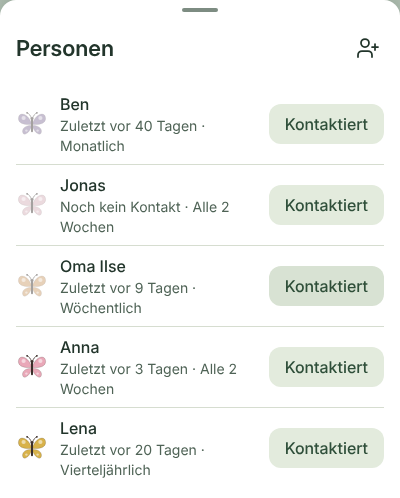
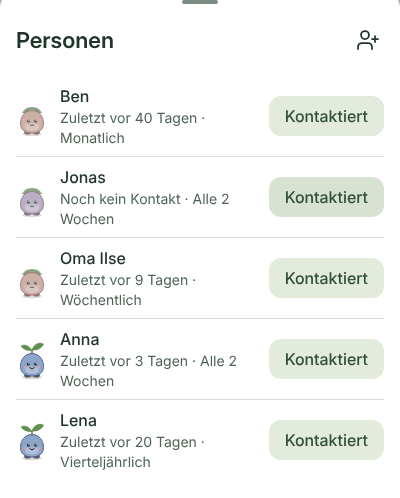
Personen: kurze Schilder auf der Insel, Spross-Figuren in den Listen
- Balance-Ansicht auf schmalen Bildschirmen: passen die vollen Schilder
  („Lena · 80 %“) nicht alle, zeigt jede Figur nur ihre Zahl („80 %“).
  Weiterhin alle oder keine; bei 320 px mit fünf Personen bleiben sie aus.
- „Melde dich bei“ und das Personen-Fenster zeigen statt Schmetterlingen
  dieselben Spross-Figuren wie die Insel (überfällig mit hängenden Blättern).
- Schmetterlings-Grafik entfernt, butterflyColor heißt jetzt personColor.
- README-Bild personen.png und Alt-Texte erneuert; Protokoll I.11–I.13.

Claude-Session: https://claude.ai/code/session_01AGRbJ4wazitSC9Dqb7GW9X

diff --git a/src/screens/garden.ts b/src/screens/garden.ts
@@ -15,7 +15,9 @@
 //   "Alle Personen"); in rhythm close together in the grove, overdue a little apart, paler and with
 //   drooping leaves. Each figure is one button (opens the person) whose pill "Lena · 80 %" is part of it.
 //   Pills show in the balance view, and in the garden view when there is room (stage ≥ 560 px) or at most
-//   three people; and only when all of them find a spot near their figures (all or none). A figure hops
+//   three people; and only when all of them find a spot near their figures (all or none). When the full
+//   pills ("Lena · 80 %") do not all fit, every pill shrinks to its number ("80 %", data-short; decision of
+//   14.10.2026), so each person keeps a number; the name stays in the figure's label and sheet. A figure hops
 //   when the person is contacted (CSS; not under reduced motion, where the move to the group and the new
 //   percent show the change).
 // - Labels are laid out after every change and on resize (services/island layoutLabels, measured in
@@ -301,8 +303,10 @@ function pillMarkup(name: string, pct: string): SafeHtml {
 
 /** "Lena · 80 %": the name may be cut with an ellipsis, the percent never. */
 function personPillMarkup(name: string, pct: string): SafeHtml {
-  const [before = '', after = ''] = t.islandPersonPill.split('{name}');
-  return h`<span class="ol-isl__dot" aria-hidden="true"></span>${before}<span class="ol-isl__pill-name">${name}</span><span class="ol-isl__pill-pct">${fmt(after, { pct })}</span>`;
+  // "{name} · {pct}": name, separator and number in their own spans, so the short form can hide the first two.
+  const [before = '', rest = ''] = t.islandPersonPill.split('{name}');
+  const [sep = '', after = ''] = rest.split('{pct}');
+  return h`<span class="ol-isl__dot" aria-hidden="true"></span><span class="ol-isl__pill-name">${before}${name}</span><span class="ol-isl__pill-sep">${sep}</span><span class="ol-isl__pill-pct">${pct}${after}</span>`;
 }
 
 /** Box of `el` relative to `origin` (both measured on screen). */
@@ -653,21 +657,34 @@ export class Island {
     const peoplePills = showPeoplePills(this.mode, figures.length, W >= ROOMY_PX);
     // In slot order (from the bench outwards), the order the slots were laid out for.
     const bySlot = [...figures].sort((a, b) => Number(a.li.dataset['slot'] ?? 0) - Number(b.li.dataset['slot'] ?? 0));
-    for (const f of bySlot) {
-      if (!f.pill || !f.box) continue;
-      f.pill.toggleAttribute('data-off', !peoplePills);
-      if (!peoplePills) continue;
+    const personRequests = (): LabelRequest[] => bySlot.flatMap((f) => {
+      if (!f.pill || !f.box) return [];
       const w = f.pill.offsetWidth;
       const hh = f.pill.offsetHeight;
       const { x, y, w: fw, h: fh } = f.box;
-      requests.push({
+      return [{
         id: `f:${f.li.dataset['id'] ?? ''}`, cx: x + fw / 2, cy: y - hh / 2 - 2, w, h: hh, reach: REACH_PERSON, required: false,
         // Below, right and left of the figure when the space above is taken.
         alternatives: [[x + fw / 2, y + fh + hh / 2 + 2], [x + fw + w / 2 + 2, y + fh / 2], [x - w / 2 - 2, y + fh / 2]],
-      });
+      }];
+    });
+    for (const f of figures) {
+      // Measure in the full form and invisible; the result decides below.
+      f.pill?.toggleAttribute('data-off', true);
+      f.pill?.toggleAttribute('data-short', false);
     }
-    const result = layoutLabels(requests, obstacles, { x: 4, y: 2, w: W - 8, h: H - 4 });
-
+    const bounds = { x: 4, y: 2, w: W - 8, h: H - 4 };
+    const fits = (r: Map<string, Box | null>): boolean => figures.every((f) => !f.pill || !f.box || r.get(`f:${f.li.dataset['id'] ?? ''}`));
+    let result = layoutLabels(peoplePills ? [...requests, ...personRequests()] : requests, obstacles, bounds);
+    // All or none: a person without a number next to the others would read as missing data. If the full
+    // pills do not all fit, try the short ones ("80 %") before hiding them.
+    let short = false;
+    if (peoplePills && !fits(result)) {
+      short = true;
+      for (const f of figures) f.pill?.toggleAttribute('data-short', true);
+      result = layoutLabels([...requests, ...personRequests()], obstacles, bounds);
+    }
+    const showPeople = peoplePills && fits(result);
     for (const el of pillEls) {
       const box = result.get(`p:${el.dataset['place'] ?? ''}`);
       if (box) {
@@ -680,13 +697,12 @@ export class Island {
       setVar(this.total, '--x', ((totalBox.x + totalBox.w / 2) / W).toFixed(4));
       setVar(this.total, '--y', ((totalBox.y + totalBox.h / 2) / H).toFixed(4));
     }
-    // All or none: a person without a number next to the others would read as missing data.
-    const allFit = figures.every((f) => !f.pill || !f.box || result.get(`f:${f.li.dataset['id'] ?? ''}`));
     for (const f of figures) {
-      if (!f.pill || !f.box || !f.button || !peoplePills) continue;
+      if (!f.pill || !f.box || !f.button) continue;
       const box = result.get(`f:${f.li.dataset['id'] ?? ''}`);
-      f.pill.toggleAttribute('data-off', !box || !allFit);
-      if (!box || !allFit) continue;
+      f.pill.toggleAttribute('data-off', !box || !showPeople);
+      f.pill.toggleAttribute('data-short', short && showPeople);
+      if (!box || !showPeople) continue;
       // The pill sits inside the figure button: offsets from the button's top-left corner.
       setVar(f.pill, '--dx', `${(box.x + box.w / 2 - f.box.x).toFixed(1)}px`);
       setVar(f.pill, '--dy', `${(box.y + box.h / 2 - f.box.y).toFixed(1)}px`);

diff --git a/public/styles/screens.css b/public/styles/screens.css
@@ -295,7 +295,7 @@
   --cloud: rgba(255, 255, 255, .4);
 }
 /* Nachtgarten (dark theme): night palette in every phase with a faint phase tint, the moon travels the
-   sun's arc; plants, flowers and butterflies keep their colours. */
+   sun's arc; plants, flowers and the people keep their colours. */
 :root[data-theme="dark"] .ol-hero {
   --sky-top: #141B2A; --sky-bottom: #1C2430; --sky-flat: #192029;
   --cloud: rgba(200, 210, 225, .1);
@@ -727,7 +727,7 @@
 .ol-isl__total-icon .ol-icon { width: 1.25em; height: 1.25em; }
 
 /* People as sprout figures (Keimi's family) by the big tree: the li is a point at the figure's feet, the
-   button stands on it; the pill "Lena · 80 %" is part of the button (offset --dx/--dy from the layout).
+   button stands on it; the pill "Lena · 80 %" (short: "80 %") is part of the button (offset --dx/--dy from the layout).
    Overdue: paler, drooping leaves (the shape is in the SVG). In rhythm the leaves sway gently. */
 .ol-isl__people { position: absolute; inset: 0; z-index: 2; margin: 0; padding: 0; list-style: none; pointer-events: none; }
 .ol-isl__person { width: 0; height: 0; }
@@ -742,11 +742,16 @@
 .ol-isl__fig .ol-isl__pill--person { position: absolute; left: var(--dx, 50%); top: var(--dy, -14px); translate: -50% -50%; }
 .ol-isl__pill--person[data-off] { visibility: hidden; }
 .ol-isl__pill--person .ol-isl__pill-name { max-width: 7.5em; overflow: hidden; text-overflow: ellipsis; }
+/* Short form on narrow stages with many people: only the number ("80 %"); the name is in the figure's label. */
+.ol-isl__pill--person[data-short] { gap: .3em; padding: 0 .6em 0 .45em; }
+.ol-isl__pill--person[data-short] .ol-isl__pill-name, .ol-isl__pill--person[data-short] .ol-isl__pill-sep { display: none; }
 .ol-isl__person[data-state="due"] .ol-isl__fig-art { opacity: .8; filter: saturate(.6); }
-.ol-isl__fig-svg .f-leaf { fill: var(--isl-leaf); stroke: color-mix(in oklab, var(--isl-leaf) 75%, var(--isl-shadow)); stroke-width: .6; }
-.ol-isl__fig-svg .f-stem { fill: none; stroke: color-mix(in oklab, var(--isl-leaf) 75%, var(--isl-shadow)); }
-.ol-isl__fig-svg .f-sh { fill: var(--isl-shadow); opacity: .22; }
-.ol-isl__fig-svg .i-night { display: none; }
+:is(.ol-isl__fig-svg, .ol-sprout) .f-leaf { fill: var(--isl-leaf); stroke: color-mix(in oklab, var(--isl-leaf) 75%, var(--isl-shadow)); stroke-width: .6; }
+:is(.ol-isl__fig-svg, .ol-sprout) .f-stem { fill: none; stroke: color-mix(in oklab, var(--isl-leaf) 75%, var(--isl-shadow)); }
+:is(.ol-isl__fig-svg, .ol-sprout) .f-sh { fill: var(--isl-shadow); opacity: .22; }
+/* Outside the island (lists) the figures stay awake and still. */
+.ol-sprout { display: block; overflow: visible; }
+:is(.ol-isl__fig-svg, .ol-sprout) .i-night { display: none; }
 :root[data-theme="dark"] .ol-isl__fig-svg .i-night, .ol-hero[data-phase="night"] .ol-isl__fig-svg .i-night { display: inline; }
 :root[data-theme="dark"] .ol-isl__fig-svg .i-day, .ol-hero[data-phase="night"] .ol-isl__fig-svg .i-day { display: none; }
 .ol-isl__fig-svg .f-leaves { transform-box: view-box; transform-origin: 16px 15px; }
@@ -1378,9 +1383,9 @@
 /* === /einstellungen === */
 
 /* === people === */
-/* People list ("Personen"): per person one button with the butterfly, the name and "last contact ·
-   rhythm" (≥ 56 px), and a compact "Kontaktiert" on the right. Due people show a pale butterfly, as
-   on the island. The bottom padding keeps the last row clear of a toast. */
+/* People list ("Personen"): per person one button with the sprout figure, the name and "last contact ·
+   rhythm" (≥ 56 px), and a compact "Kontaktiert" on the right. Due people show a paler figure with
+   drooping leaves, as on the island. The bottom padding keeps the last row clear of a toast. */
 .ol-people { display: flex; flex-direction: column; padding: var(--space-1) 0 calc(var(--touch) + var(--space-4)); }
 .ol-people__list { display: grid; }
 .ol-people__list[hidden] { display: none; }
@@ -1399,7 +1404,7 @@
 }
 .ol-people__open:active { background-color: var(--color-overlay-pressed); }
 .ol-people__glyph { flex: none; display: inline-flex; transition: opacity var(--duration-base) linear; }
-.ol-people__row[data-due] .ol-people__glyph { opacity: .45; filter: saturate(.6); }
+.ol-people__row[data-due] .ol-people__glyph { opacity: .8; filter: saturate(.6); }
 .ol-people__text { flex: 1 1 auto; min-width: 0; display: flex; flex-direction: column; }
 .ol-people__name { font-weight: 500; overflow-wrap: anywhere; }
 .ol-people__meta { color: var(--color-text-2); overflow-wrap: anywhere; }

diff --git a/src/screens/heute.ts b/src/screens/heute.ts
@@ -43,8 +43,8 @@
 //   are celebrated quietly (Keimi's sentence for CELEBRATE_MS, the object fades in, aria-live). The mount also
 //   runs the silent backfill. Each place shows its highest streak tier and up to three shrubs.
 import { liveQuery, type Observable, type Subscription } from 'dexie';
-import { butterfly, flower, petalColor } from '../components/flora.js';
-import type { IslandArea } from '../components/island.js';
+import { flower, petalColor } from '../components/flora.js';
+import { sproutFigure, type IslandArea } from '../components/island.js';
 import type { CheckboxChange } from '../components/ol-checkbox.js';
 import type { HabitToggleChange } from '../components/ol-habit-toggle.js';
 import type { OlHeatmap, ToggleDayDetail } from '../components/ol-heatmap.js';
@@ -70,7 +70,7 @@ import { profile$, updateProfile } from '../repo/profile.js';
 import { compareDue, completeTask, dueOn, getTask, reopenTask, subtaskProgress$, type CompleteResult } from '../repo/tasks.js';
 import type { Route } from '../router.js';
 import {
-  butterflyColor, closeness, contactStatuses, lastContactText, rhythmLabel, suggestions, type ContactStatus,
+  personColor, closeness, contactStatuses, lastContactText, rhythmLabel, suggestions, type ContactStatus,
 } from '../services/contacts.js';
 import { bestStreak, isScheduledOn, nextStage, stageFor, streak, weekProgress } from '../services/growth.js';
 import {
@@ -1609,7 +1609,7 @@ class HeuteScreen {
       const person: IslandPerson & { urgency: number } = {
         id: status.contact.id,
         name: status.contact.name,
-        color: butterflyColor(status.contact),
+        color: personColor(status.contact),
         state,
         pct,
         label: fmt(t.islandPersonAria, {
@@ -2165,11 +2165,11 @@ class HeuteScreen {
 
   private updatePersonRow(row: HTMLElement, status: ContactStatus): void {
     const { contact } = status;
-    const color = butterflyColor(contact);
+    const look = `${personColor(contact)}|${status.due ? 'due' : 'fresh'}`;
     const glyph = row.querySelector<HTMLElement>('.ol-heute__person-glyph');
-    if (glyph && glyph.dataset['color'] !== color) {
-      glyph.dataset['color'] = color;
-      render(glyph, raw(butterfly(color, 28)));
+    if (glyph && glyph.dataset['look'] !== look) {
+      glyph.dataset['look'] = look;
+      render(glyph, raw(sproutFigure(personColor(contact), status.due ? 'due' : 'fresh', { className: 'ol-sprout', width: 30 })));
     }
     const title = row.querySelector('.ol-heute__title');
     if (title) {
@@ -2182,7 +2182,7 @@ class HeuteScreen {
     if (button) setAttr(button, 'aria-label', fmt(t.heuteContactedAria, { name: contact.name }));
   }
 
-  /** "Kontaktiert": logs today, the row leaves, the butterfly takes off; the toast offers Rückgängig. */
+  /** "Kontaktiert": logs today, the row leaves, the figure on the island hops; the toast offers Rückgängig. */
   private async onContacted(row: HTMLElement, id: Id): Promise<void> {
     const contact = this.contacts?.find((c) => c.id === id);
     if (!contact || this.contactedNow.has(id)) return;

diff --git a/src/screens/sheets/people.ts b/src/screens/sheets/people.ts
@@ -1,6 +1,6 @@
 // People sheets ("Personen"): the list of all people and the person editor.
 // List (full detent, history push): header action "Person hinzufügen"; one row per active person,
-// due people first, then by name: butterfly glyph (pale while due, like on the island), name,
+// due people first, then by name: sprout figure (drooping and paler while due, like on the island), name,
 // "last contact · rhythm" and a compact "Kontaktiert" button that logs today (toast with
 // "Rückgängig"). The name button opens the editor. Empty state with the same action.
 // Editor (fit up to the full detent, history push): name, rhythm (radio chips), note; for an existing
@@ -25,7 +25,7 @@ import '../../components/ol-chip.js';
 import '../../components/ol-empty-state.js';
 import '../../components/ol-icon-button.js';
 import '../../components/ol-input.js';
-import { butterfly } from '../../components/flora.js';
+import { sproutFigure } from '../../components/island.js';
 import type { OlButton } from '../../components/ol-button.js';
 import type { ChipChange, OlChip } from '../../components/ol-chip.js';
 import { confirmDialog } from '../../components/ol-dialog.js';
@@ -42,7 +42,7 @@ import {
   removeContactLog, restoreContact, restoreContactLog, undoLogContact, updateContact,
 } from '../../repo/contacts.js';
 import {
-  butterflyColor, CONTACT_KINDS, contactKindLabel, contactStatus, contactStatuses, isContactKind, lastContactText,
+  personColor, CONTACT_KINDS, contactKindLabel, contactStatus, contactStatuses, isContactKind, lastContactText,
   rhythmLabel, type ContactStatus,
 } from '../../services/contacts.js';
 import { formatDayLong, onDayChange, today } from '../../util/date.js';
@@ -164,7 +164,7 @@ class PeopleSheet {
       id: s.contact.id,
       name: s.contact.name,
       meta: metaLine(s),
-      color: butterflyColor(s.contact),
+      color: personColor(s.contact),
       due: s.due,
       today: s.contactedToday,
       busy: this.busy.has(s.contact.id),
@@ -188,7 +188,7 @@ class PeopleSheet {
         const metaId = `${listId}-m${index}`;
         return h`<li class="ol-people__row" ${row.due ? 'data-due' : ''}>
   <button type="button" class="ol-people__open" data-open="${row.id}" aria-label="${fmt(t.peopleOpenAria, { name: row.name })}" aria-describedby="${metaId}">
-    <span class="ol-people__glyph" aria-hidden="true">${raw(butterfly(row.color, GLYPH_SIZE))}</span>
+    <span class="ol-people__glyph" aria-hidden="true">${raw(sproutFigure(row.color, row.due ? 'due' : 'fresh', { className: 'ol-sprout', width: GLYPH_SIZE }))}</span>
     <span class="ol-people__text">
       <span class="ol-people__name">${row.name}</span>
       <span class="ol-people__meta ol-body-s" id="${metaId}">${row.meta}</span>

diff --git a/src/components/flora.ts b/src/components/flora.ts
@@ -336,37 +336,6 @@ export function plant(stage: Stage, flowerId: FlowerId, tint: string, size = 120
     + '</svg>';
 }
 
-// ---------------------------------------------------------------------------
-// Butterfly (one per person on the island), viewBox 0 0 32 28, body on x = 16.
-
-const BUTTERFLY_BODY = '#3B2F2A';
-const WING_UPPER = 'M15.2 12.5C11 2.5 2.6 1.8 2.4 8.4C2.3 13.4 8.6 15.2 15.2 14.4Z';
-const WING_LOWER = 'M15.2 15.4C9.6 15.2 5.4 18.6 6.8 22.8C8.2 26.4 13.2 22.6 15.2 17.6Z';
-
-function wing(color: string): string {
-  return `<path d="${WING_UPPER}" fill="${color}" stroke="${BUTTERFLY_BODY}" stroke-opacity=".28" stroke-width=".7"/>`
-    + `<path d="${WING_LOWER}" fill="${color}" stroke="${BUTTERFLY_BODY}" stroke-opacity=".28" stroke-width=".7"/>`
-    + `<circle cx="7.6" cy="8" r="2.1" fill="${WHITE}" fill-opacity=".55"/>`
-    + `<circle cx="10.4" cy="20.6" r="1.2" fill="${WHITE}" fill-opacity=".5"/>`;
-}
-
-/**
- * Butterfly glyph: two wing groups (g.ol-butterfly__wing--l / --r, transform-origin on the body)
- * that CSS can flap, a body and antennae. `color` must be #rgb / #rrggbb (else sage).
- */
-export function butterfly(color: string, size = 32): string {
-  const c = isTint(color) ? color : SAGE;
-  const w = size > 0 ? size : 32;
-  return `<svg class="ol-butterfly__svg" viewBox="0 0 32 28" width="${num(w)}" height="${num((w * 28) / 32)}" aria-hidden="true" focusable="false">`
-    + `<g class="ol-butterfly__wing ol-butterfly__wing--l">${wing(c)}</g>`
-    + `<g class="ol-butterfly__wing ol-butterfly__wing--r"><g transform="matrix(-1 0 0 1 32 0)">${wing(c)}</g></g>`
-    + `<path d="M15.6 8.6C14.6 5.4 13 3.6 11.2 2.8M16.4 8.6C17.4 5.4 19 3.6 20.8 2.8" fill="none" stroke="${BUTTERFLY_BODY}" stroke-width=".8" stroke-linecap="round"/>`
-    + `<circle cx="11.1" cy="2.8" r=".9" fill="${BUTTERFLY_BODY}"/><circle cx="20.9" cy="2.8" r=".9" fill="${BUTTERFLY_BODY}"/>`
-    + `<rect x="15" y="8.8" width="2" height="13.4" rx="1" fill="${BUTTERFLY_BODY}"/>`
-    + `<circle cx="16" cy="8.6" r="1.5" fill="${BUTTERFLY_BODY}"/>`
-    + '</svg>';
-}
-
 /** Ray colour of each flower that is not white (S31). */
 const PETAL: Partial<Record<FlowerId, string>> = {
   calendula: '#E8963E', helianthus: SUN, centaurea: '#4C6FB3', passiflora: '#B89BD1', generic: SAGE,

diff --git a/src/components/island.ts b/src/components/island.ts
@@ -835,9 +835,10 @@ const FIG_BODY = 'M16 14.5C23.5 14.5 27.5 21 27.5 27.5C27.5 34 22.5 37 16 37C9.5
  * A person as a small sprout figure (Keimi's family): round body in the person's colour, two leaves, a
  * simple face. In rhythm the leaves stand up and it smiles; overdue the leaves droop and the mouth is
  * level (shape, not only colour). Sleeping eyes at night (.i-night / .i-day like the island). viewBox
- * 0 0 32 40, feet at (16, 38); aria-hidden (the button carries the name).
+ * 0 0 32 40, feet at (16, 38); aria-hidden (the button carries the name). Lists ("Melde dich bei", the
+ * people sheet) pass their own class (CSS keeps the eyes open there) and a width.
  */
-export function sproutFigure(color: string, state: 'fresh' | 'due'): string {
+export function sproutFigure(color: string, state: 'fresh' | 'due', opts: { className?: string; width?: number } = {}): string {
   const tint = safeTint(color);
   const body = lighten(tint, 0.3);
   const line = darken(tint, 0.45);
@@ -845,7 +846,9 @@ export function sproutFigure(color: string, state: 'fresh' | 'due'): string {
     ? '<path class="f-leaf" d="M16 11.5C13 6.5 8.5 5 5 7C7.5 10.5 11.5 12 16 11.5Z"/><path class="f-leaf" d="M16 11C18 5 23 3 27.5 5C25.5 9.5 21 11.5 16 11Z"/>'
     : '<path class="f-leaf" d="M16 12C12 11 8 13 6.5 17C10.5 17 14 15 16 12Z"/><path class="f-leaf" d="M16 12C20 11 24 13 25.5 17C21.5 17 18 15 16 12Z"/>';
   const mouth = state === 'fresh' ? 'M14 28.6q2 2 4 0' : 'M14.3 29.3h3.4';
-  return '<svg class="ol-isl__fig-svg" viewBox="0 0 32 40" width="32" height="40" aria-hidden="true" focusable="false">'
+  const cls = opts.className && /^[a-z_ -]+$/iu.test(opts.className) ? opts.className : 'ol-isl__fig-svg';
+  const w = opts.width !== undefined && opts.width > 0 ? opts.width : 32;
+  return `<svg class="${cls}" viewBox="0 0 32 40" width="${f(w)}" height="${f((w * 40) / 32)}" aria-hidden="true" focusable="false">`
     + '<ellipse class="f-sh" cx="16" cy="38.2" rx="10" ry="2"/>'
     + `<g class="f-art"><g class="f-leaves"><path class="f-stem" d="M16 15.5V11.5" stroke-width="1.5" stroke-linecap="round"/>${leaves}</g>`
     + `<ellipse cx="11.5" cy="36.6" rx="3.3" ry="2" fill="${line}"/><ellipse cx="20.5" cy="36.6" rx="3.3" ry="2" fill="${line}"/>`

diff --git a/src/__tests__/contacts.test.ts b/src/__tests__/contacts.test.ts
@@ -6,7 +6,7 @@ import assert from 'node:assert/strict';
 import { describe, test } from 'node:test';
 import type { Contact, ContactKind, ContactLog, Day } from '../model.js';
 import {
-  BUTTERFLY_COLORS, butterflyColor, contactKindLabel, contactStatus, contactStatuses, lastContactText, rhythmLabel,
+  PERSON_COLORS, personColor, contactKindLabel, contactStatus, contactStatuses, lastContactText, rhythmLabel,
   suggestions,
 } from '../services/contacts.js';
 import { ImportError, validateExport } from '../services/transfer.js';
@@ -172,15 +172,15 @@ describe('texts', () => {
   });
 });
 
-describe('butterflyColor', () => {
+describe('personColor', () => {
   test('stable per id and from the palette', () => {
     const p = person('5f0c0a7e-1111-4222-8333-944455556666', 7);
-    assert.equal(butterflyColor(p), butterflyColor({ ...p, name: 'Other' }));
-    assert.ok(BUTTERFLY_COLORS.includes(butterflyColor(p)));
+    assert.equal(personColor(p), personColor({ ...p, name: 'Other' }));
+    assert.ok(PERSON_COLORS.includes(personColor(p)));
   });
 
   test('spreads over the palette', () => {
-    const colors = new Set(Array.from({ length: 60 }, (_, i) => butterflyColor(person(`id-${i}`, 7))));
+    const colors = new Set(Array.from({ length: 60 }, (_, i) => personColor(person(`id-${i}`, 7))));
     assert.ok(colors.size >= 4);
   });
 });

diff --git a/src/services/contacts.ts b/src/services/contacts.ts
@@ -133,8 +133,8 @@ export function contactKindLabel(kind: ContactKind): string {
   return KIND_LABELS[kind];
 }
 
-/** Butterfly wing colours: a warm palette next to the app tokens (sun, clay, area tints). */
-export const BUTTERFLY_COLORS: readonly string[] = ['#E8963E', '#C96A5A', '#8C6FB0', '#5B7FB5', '#D8B24A', '#E9A8B8'];
+/** Colours of the people's sprout figures: a warm palette next to the app tokens (sun, clay, area tints). */
+export const PERSON_COLORS: readonly string[] = ['#E8963E', '#C96A5A', '#8C6FB0', '#5B7FB5', '#D8B24A', '#E9A8B8'];
 
 /** FNV-1a (32 bit) over the UTF-16 code units: stable across sessions and devices. */
 function hash(text: string): number {
@@ -146,7 +146,7 @@ function hash(text: string): number {
   return h >>> 0;
 }
 
-/** One of BUTTERFLY_COLORS, chosen by a stable hash of contact.id. */
-export function butterflyColor(contact: Contact): string {
-  return BUTTERFLY_COLORS[hash(contact.id) % BUTTERFLY_COLORS.length] ?? '#E8963E';
+/** One of PERSON_COLORS, chosen by a stable hash of contact.id. */
+export function personColor(contact: Contact): string {
+  return PERSON_COLORS[hash(contact.id) % PERSON_COLORS.length] ?? '#E8963E';
 }

diff --git a/src/services/seed.ts b/src/services/seed.ts
@@ -4,8 +4,8 @@
 // "10 min dehnen" has 13 days in a row up to yesterday, so ticking it today shows the
 // stage change to Blüte with its animation.
 // People part: five people with contact logs relative to today, so the island shows a mix of
-// butterflies in rhythm and overdue ones, plus an active "Beziehungen" area (helianthus) around
-// whose tree they fly (created from DEFAULT_AREAS or un-archived).
+// people in rhythm and overdue ones, plus an active "Beziehungen" area (helianthus) around
+// whose tree they stand (created from DEFAULT_AREAS or un-archived).
 // Each part is skipped when it already exists (habits: "10 min dehnen"; people: "Anna"); the result
 // is 'exists' only when both parts existed.
 import { db } from '../db.js';

diff --git a/README.md b/README.md
@@ -4,7 +4,7 @@ Habit Garden ist ein Garten für deinen Alltag. Jede Gewohnheit, die du pflegen 
 
 **Ausprobieren:** [daimpad.github.io/habit-garden](https://daimpad.github.io/habit-garden/). Unter Einstellungen › Info kannst du Beispieldaten laden und den Garten gleich gefüllt sehen.
 
-![Die Garten-Insel am Abend: Haus, Teich, Werkstatt, Brunnen und ein großer Baum mit Bank, dazwischen Pflanzen in verschiedenen Stufen, Schmetterlinge und der kleine Begleiter Keimi mit einer Sprechblase](docs/bilder/garten.png)
+![Die Garten-Insel am Abend: Haus, Teich, Werkstatt, Brunnen und ein großer Baum mit Bank, dazwischen Pflanzen in verschiedenen Stufen, kleine Spross-Figuren für Personen und der kleine Begleiter Keimi mit einer Sprechblase](docs/bilder/garten.png)
 
 ## Die Idee
 
@@ -31,7 +31,7 @@ Du ordnest dein Leben in Bereiche wie Gesundheit, Beziehungen oder Beruf. Jeder 
 
 <p>
   <img src="docs/bilder/routine.png" width="360" alt="Karte der Gewohnheit „Lesen“: Pflanze in der Stufe Knospe, drei Wochen in Folge, Überblick über zwölf Wochen">
-  <img src="docs/bilder/personen.png" width="360" alt="Liste der Personen mit Schmetterlingen, letztem Kontakt und Rhythmus">
+  <img src="docs/bilder/personen.png" width="360" alt="Liste der Personen mit kleinen Spross-Figuren, letztem Kontakt und Rhythmus">
 </p>
 
 ## Was noch kommt
